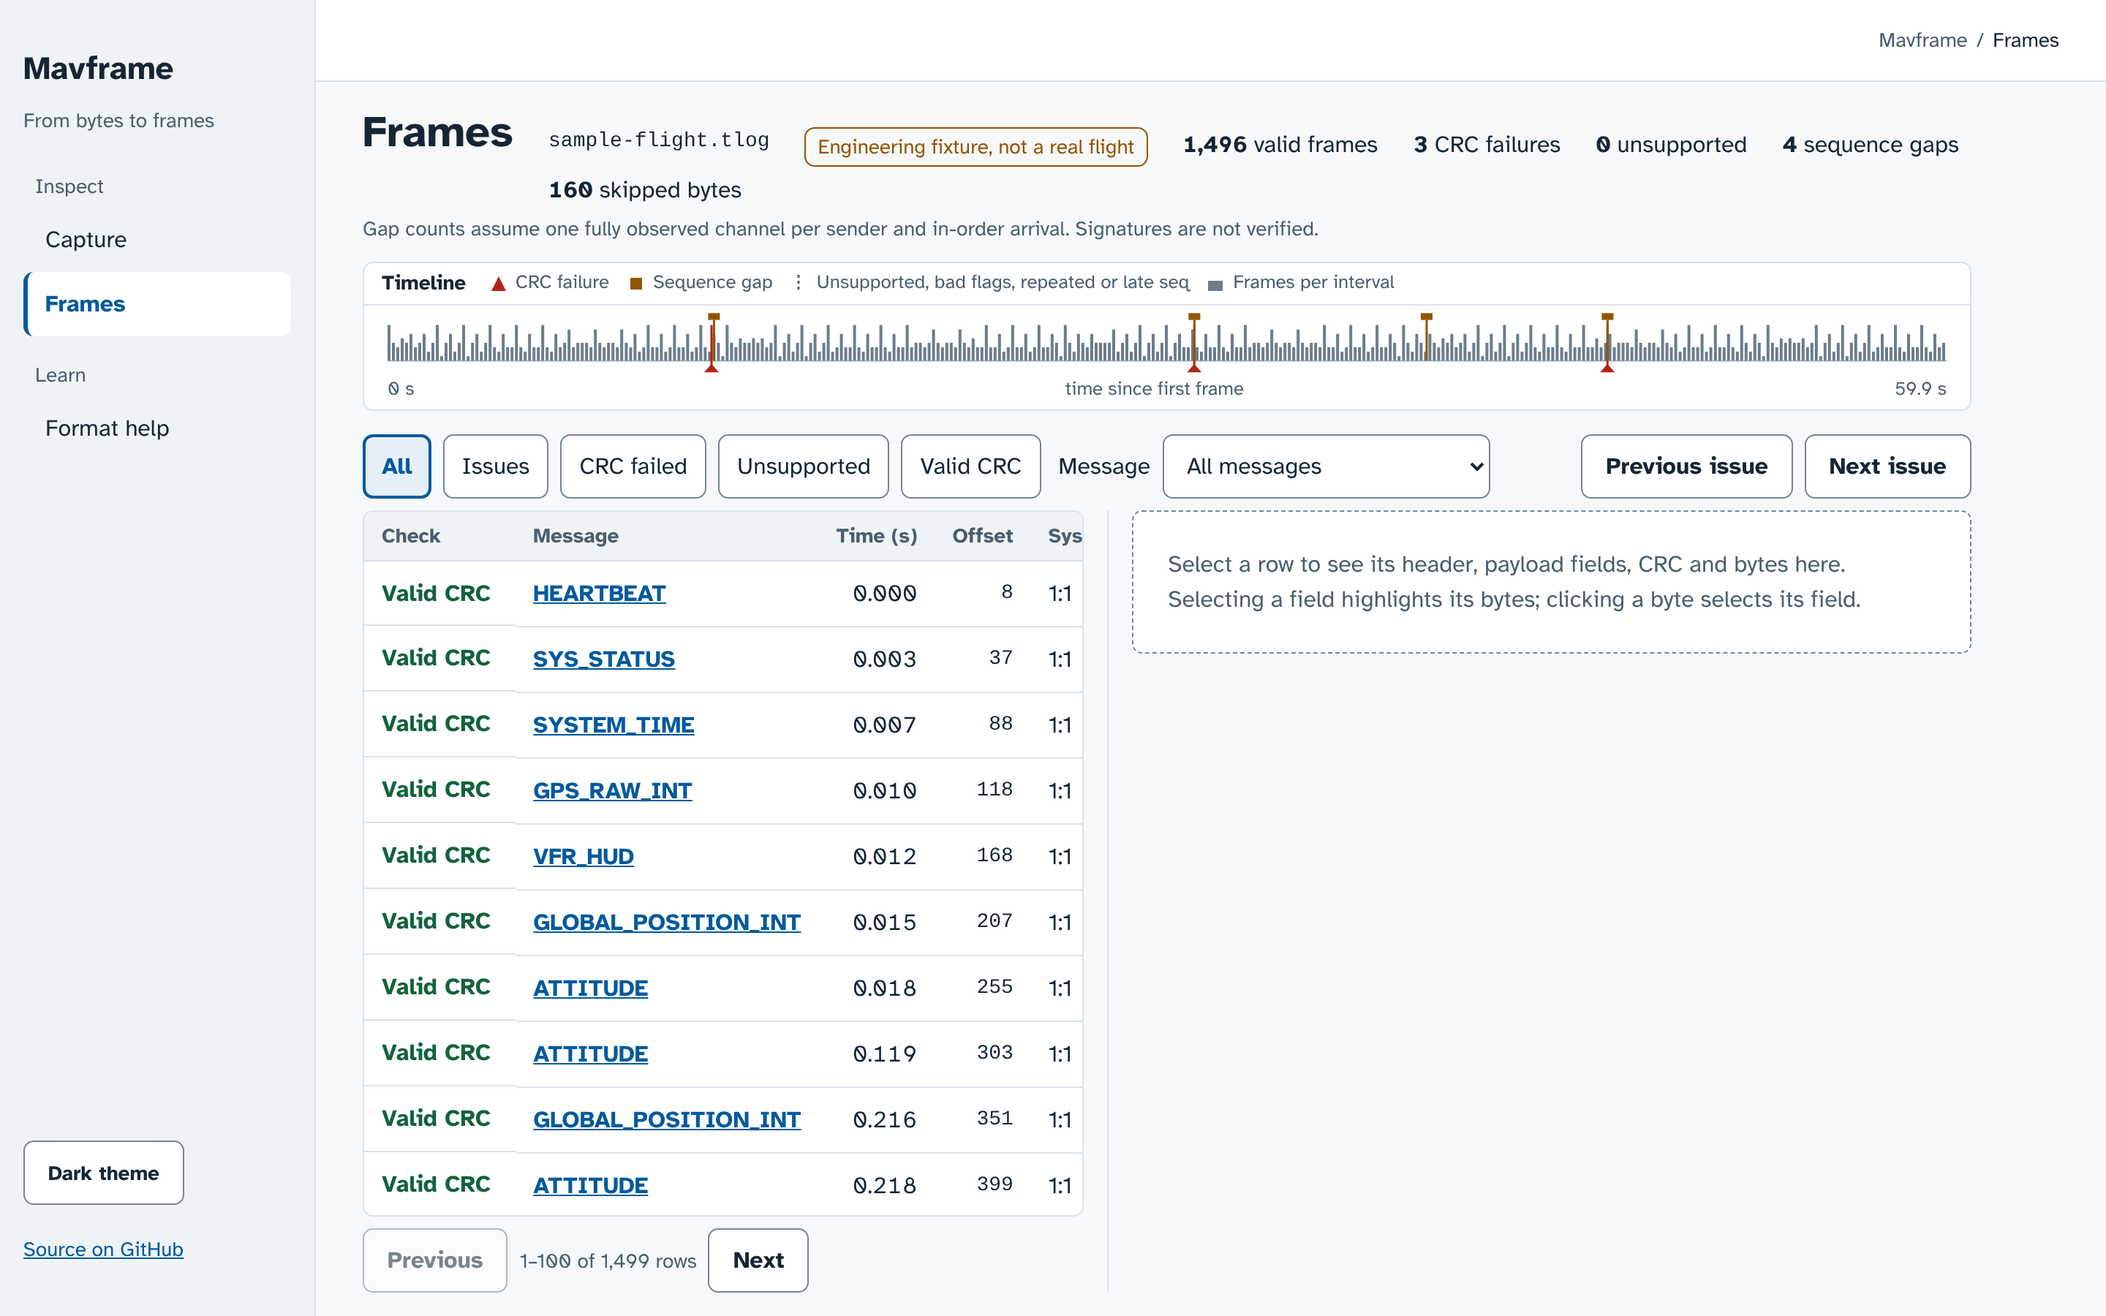
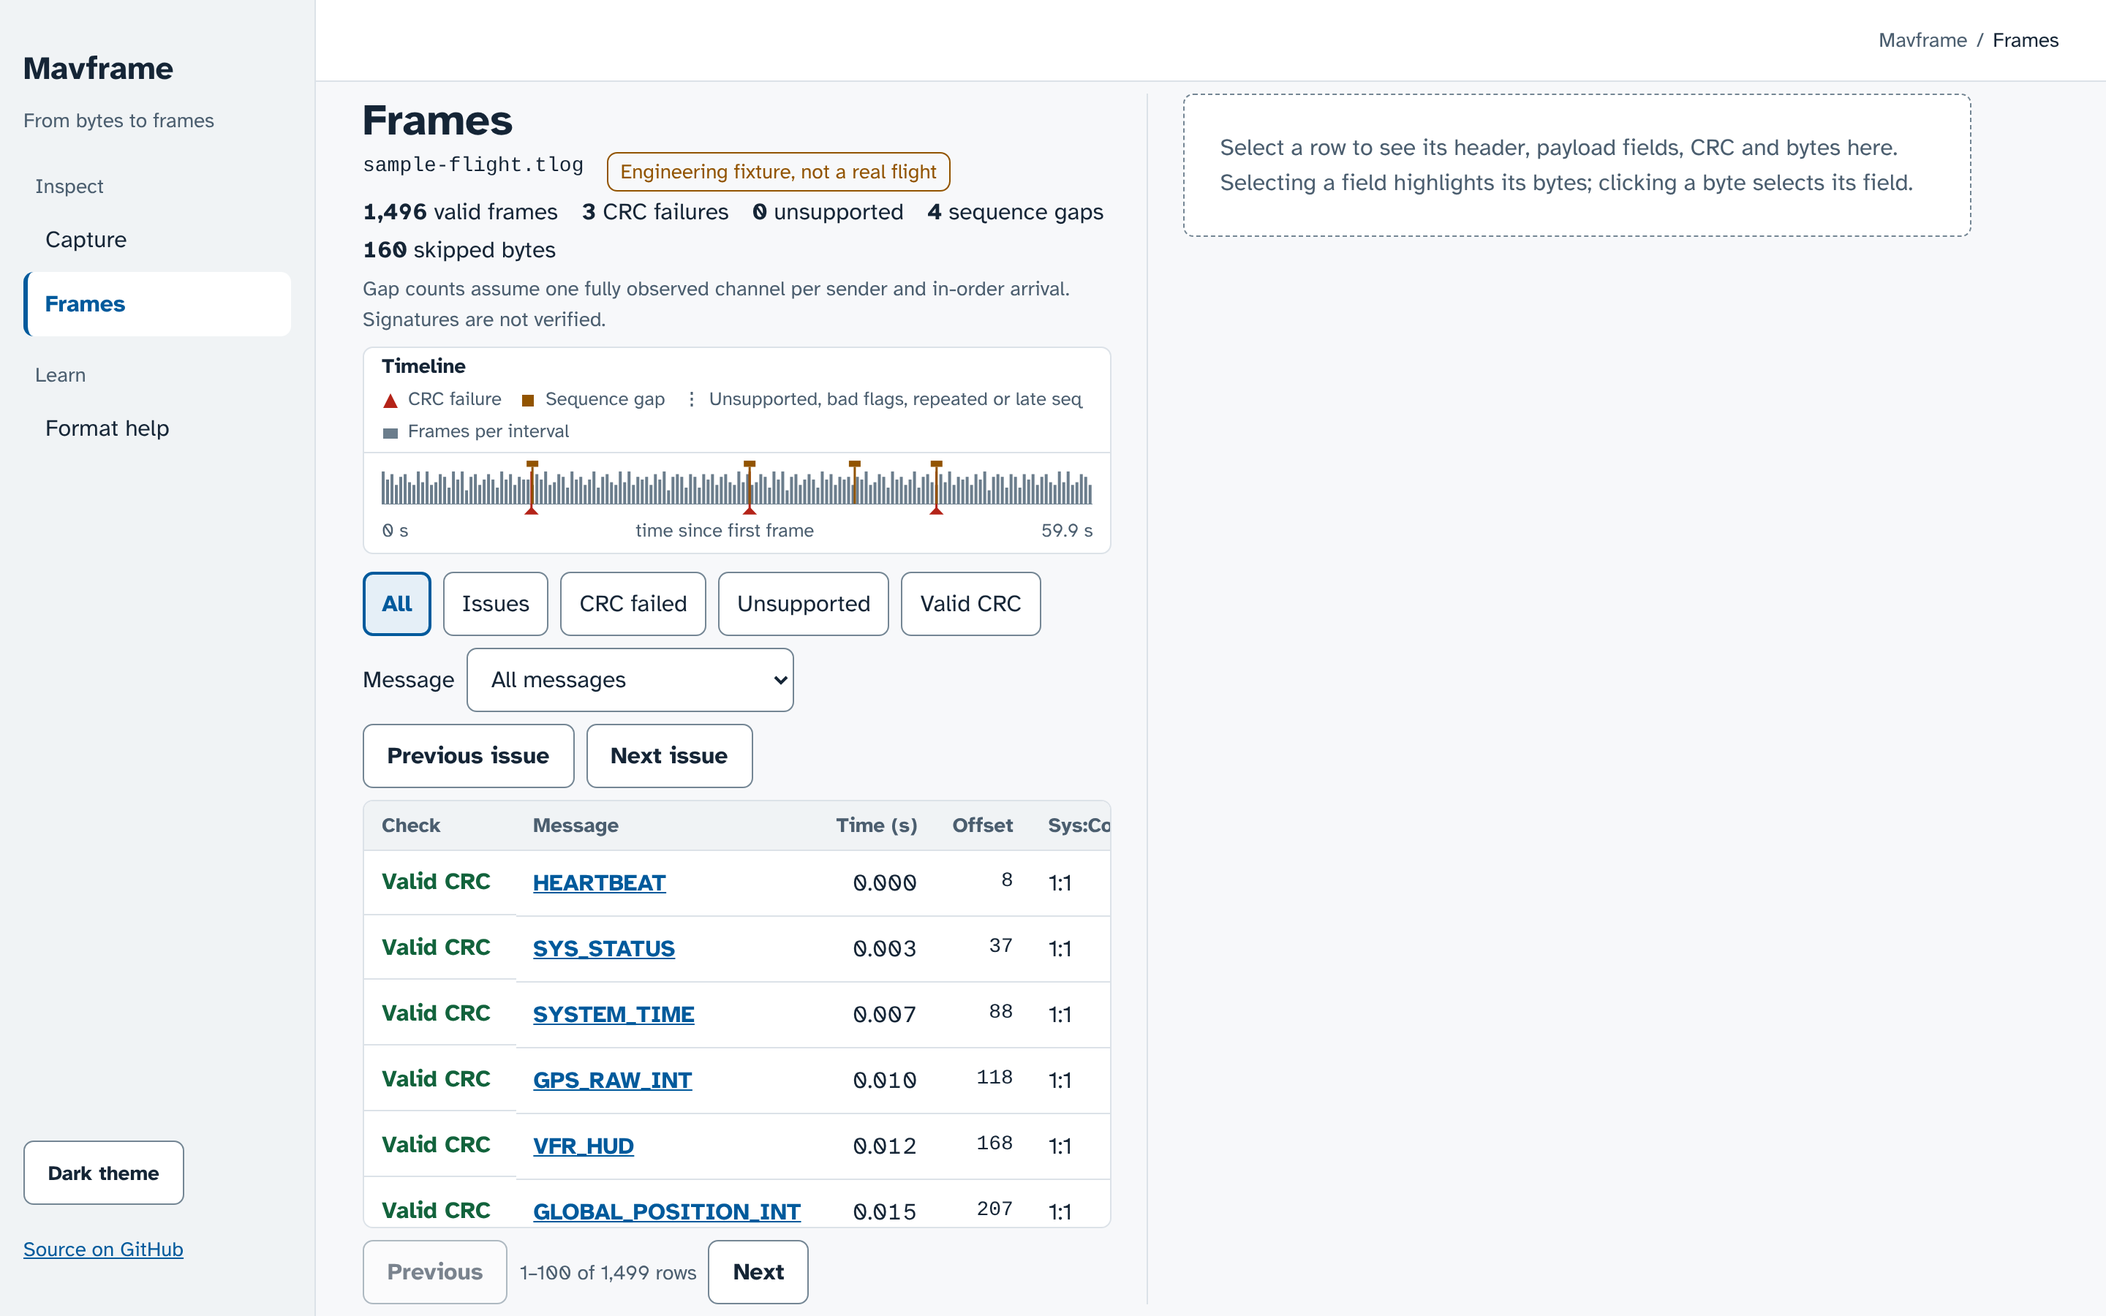
Three-pane analyzer only where it fits; route layout below; box-tested sizing
- The analyzer is used only at (min-width: 1200px) and (min-height: 880px).
  Measured: the 8 header fields (44px targets), 8 hex rows, CRC row and
  Export need about 820px below the location header; at 760px tall only
  3 of 8 header fields fit. Below that (e.g. 1024x768, 1280x720) Frames ->
  Frame details is the two-step route with its own title, H1 and Back.
- Analyzer layout: left column holds heading, counts, timeline, filters
  and the list; the right column runs full height with CRC, the field tree
  (header fields first, 44px rows) and the bytes (room for 8 rows).
- Tests with real bounding boxes: at 1440x900, all 8 header field buttons
  are inside the tree pane and the bytes pane holds 8+ rows with no inner
  or sideways scroll, for three row types; at 1024x768 and 1280x720 the
  route layout is used and the list columns, CRC row, tabs, tables and hex
  fit without clipping.

UI only: C, Wasm and core.js byte-identical.

Claude-Session: https://claude.ai/code/session_01SBDy3AAAGa7xAC8BzFcKKn

diff --git a/docs/css/inspector.css b/docs/css/inspector.css
@@ -180,61 +180,60 @@ tr.trimmed td { color: var(--muted); }
 .export-status { flex-basis: 100%; margin: 0; }
 .export-status:empty { display: none; }
 
-/* Wide (>= 1000px): the analyzer. The Frames screen fills the viewport height; the frame list
-   (left) and the detail column (right: CRC, field tree over bytes) scroll inside their own panes,
-   so list, fields and bytes are on screen together without page scrolling. */
+/* Analyzer (body.analyzer-mode, set by app.js when (min-width: 1200px) and (min-height: 880px) match):
+   the Frames screen fills the viewport height with no page scrolling. Left column: heading, counts,
+   timeline, filters and the scrolling frame list. Right column, full height: CRC wire vs computed,
+   the field tree (header fields first) and the bytes (room for 8+ rows), then Export.
+   Below that size, Frames -> Frame details is a two-step route, as on narrow screens. */
 .analyzer.wide .tabs { display: none; }
-@media (min-width: 1000px) {
-  body.analyzer-mode .app { height: 100vh; }
-  body.analyzer-mode .main-col { height: 100vh; }
-  body.analyzer-mode main { flex: 1; min-height: 0; display: flex; flex-direction: column; padding-top: 16px; padding-bottom: 16px; }
-  body.analyzer-mode #screen-frames { flex: 1; min-height: 0; display: grid; column-gap: 24px; align-items: baseline;
-    grid-template-columns: auto minmax(0, 1fr); grid-template-rows: auto auto auto auto minmax(0, 1fr);
-    grid-template-areas: "h1 counts" "note note" "timeline timeline" "filters filters" "analyzer analyzer"; }
-  body.analyzer-mode #frames-body { display: contents; }
-  body.analyzer-mode #screen-frames > h1 { grid-area: h1; }
-  body.analyzer-mode #frames-empty { grid-area: counts; }
-  body.analyzer-mode .counts { grid-area: counts; }
-  body.analyzer-mode #frames-assumptions { grid-area: note; }
-  body.analyzer-mode .timeline-box { grid-area: timeline; }
-  body.analyzer-mode .filters { grid-area: filters; }
-  body.analyzer-mode .analyzer { grid-area: analyzer; align-self: stretch; }
-  body.analyzer-mode #screen-frames h1 { margin-bottom: 4px; }
-  body.analyzer-mode .counts, body.analyzer-mode #frames-assumptions { margin-bottom: 4px; }
-  body.analyzer-mode .timeline-box { margin: 8px 0; }
-  body.analyzer-mode #timeline { height: 44px; }
-  body.analyzer-mode .timeline-wrap { padding: 4px 16px; }
-  body.analyzer-mode .filters { margin: 8px 0; }
-  body.analyzer-mode .analyzer { min-height: 0; grid-template-columns: minmax(0, 5fr) minmax(0, 6fr); grid-template-rows: minmax(0, 1fr); }
-  body.analyzer-mode .pane-list { display: flex; flex-direction: column; min-height: 0; }
-  body.analyzer-mode .list-wrap { flex: 1; min-height: 0; max-height: none; }
-  body.analyzer-mode .pager { padding-bottom: 0; }
-  body.analyzer-mode .pane-detail { min-height: 0; display: flex; flex-direction: column; border-left: 1px solid var(--divider); padding-left: 16px; }
-  body.analyzer-mode .pane-detail .detail { flex: 1; min-height: 0; display: flex; flex-direction: column; border-top: 0; padding-top: 0; }
-  body.analyzer-mode #detail-body { flex: 1; min-height: 0; display: flex; flex-direction: column; }
-  body.analyzer-mode #detail-summary { display: none; }
-  body.analyzer-mode .detail-title { font-size: 1rem; margin-bottom: 8px; }
-  body.analyzer-mode .crc-compare { margin-bottom: 8px; }
-  body.analyzer-mode .crc-compare > div { padding: 4px 12px; }
-  body.analyzer-mode .panes { flex: 1; min-height: 0; gap: 8px; grid-template-rows: minmax(0, 1fr) minmax(0, 1fr); }
-  body.analyzer-mode .tree-col, body.analyzer-mode #panel-bytes { min-height: 0; overflow: auto; border: 1px solid var(--divider); border-radius: var(--radius); background: var(--surface); padding: 0 8px 8px; }
-  body.analyzer-mode #panel-bytes { padding-top: 8px; }
-  body.analyzer-mode .export { margin-top: 8px; padding-top: 8px; }
-  body.analyzer-mode .note { margin: 8px 0; }
-  body.analyzer-mode .timeline-box .box-header { padding: 4px 12px; }
-  body.analyzer-mode .timeline-box h2 { font-size: .875rem; }
-  body.analyzer-mode .timeline-box .legend, body.analyzer-mode .axis { font-size: .8125rem; gap: 2px 12px; }
-  body.analyzer-mode .crc-compare { grid-template-columns: repeat(3, minmax(0, 1fr)); }
-  body.analyzer-mode .crc-compare .k { font-size: .8125rem; }
-  body.analyzer-mode .crc-compare .v { font-size: .9375rem; }
-  body.analyzer-mode .step { display: none; }
-  body.analyzer-mode .chip { padding-left: 12px; padding-right: 12px; }
-  body.analyzer-mode .chip[aria-pressed="true"] { padding-left: 11px; padding-right: 11px; }
-  body.analyzer-mode .filters { gap: 8px 12px; }
-  body.analyzer-mode .pager { flex-wrap: nowrap; gap: 8px; }
-  body.analyzer-mode #page-info { font-size: .875rem; white-space: nowrap; overflow: hidden; text-overflow: ellipsis; min-width: 0; }
-
-}
+body.analyzer-mode .app { height: 100vh; }
+body.analyzer-mode .main-col { height: 100vh; }
+body.analyzer-mode main { flex: 1; min-height: 0; display: flex; flex-direction: column; padding-top: 8px; padding-bottom: 8px; }
+body.analyzer-mode #screen-frames { flex: 1; min-height: 0; display: grid; column-gap: 24px;
+  grid-template-columns: minmax(0, 1fr) minmax(0, 1.1fr); grid-template-rows: auto auto auto auto auto minmax(0, 1fr);
+  grid-template-areas: "h1 detail" "counts detail" "note detail" "timeline detail" "filters detail" "list detail"; }
+body.analyzer-mode #frames-body, body.analyzer-mode .analyzer { display: contents; }
+body.analyzer-mode #screen-frames > h1 { grid-area: h1; margin-bottom: 4px; }
+body.analyzer-mode #frames-empty { grid-area: counts; }
+body.analyzer-mode .counts { grid-area: counts; margin-bottom: 4px; gap: 2px 16px; }
+body.analyzer-mode #frames-assumptions { grid-area: note; margin-bottom: 4px; }
+body.analyzer-mode .timeline-box { grid-area: timeline; margin: 4px 0; }
+body.analyzer-mode #timeline { height: 40px; }
+body.analyzer-mode .timeline-wrap { padding: 4px 12px; }
+body.analyzer-mode .timeline-box .box-header { padding: 4px 12px; }
+body.analyzer-mode .timeline-box h2 { font-size: .875rem; }
+body.analyzer-mode .timeline-box .legend, body.analyzer-mode .axis { font-size: .8125rem; gap: 2px 12px; }
+body.analyzer-mode .filters { grid-area: filters; margin: 8px 0; gap: 8px; }
+body.analyzer-mode .issue-step { margin-left: 0; }
+body.analyzer-mode .chip { padding-left: 12px; padding-right: 12px; }
+body.analyzer-mode .chip[aria-pressed="true"] { padding-left: 11px; padding-right: 11px; }
+body.analyzer-mode .pane-list { grid-area: list; display: flex; flex-direction: column; min-height: 0; }
+body.analyzer-mode .list-wrap { flex: 1; min-height: 0; max-height: none; }
+body.analyzer-mode .pager { flex-wrap: nowrap; gap: 8px; padding-bottom: 0; }
+body.analyzer-mode #page-info { font-size: .875rem; white-space: nowrap; overflow: hidden; text-overflow: ellipsis; min-width: 0; }
+body.analyzer-mode .pane-detail { grid-area: detail; min-height: 0; display: flex; flex-direction: column; border-left: 1px solid var(--divider); padding-left: 24px; }
+body.analyzer-mode .pane-detail .detail { flex: 1; min-height: 0; display: flex; flex-direction: column; border-top: 0; padding-top: 0; }
+body.analyzer-mode #detail-body { flex: 1; min-height: 0; display: flex; flex-direction: column; }
+body.analyzer-mode #detail-summary { display: none; }
+body.analyzer-mode .detail-title { font-size: 1rem; margin: 0 0 8px; }
+body.analyzer-mode .crc-compare { margin-bottom: 8px; grid-template-columns: repeat(3, minmax(0, 1fr)); }
+body.analyzer-mode .crc-compare > div { padding: 4px 12px; }
+body.analyzer-mode .crc-compare .k { display: inline; font-size: .8125rem; margin-right: 6px; }
+body.analyzer-mode .crc-compare .v { font-size: .9375rem; }
+body.analyzer-mode .panes { flex: 1; min-height: 0; gap: 8px; grid-template-rows: minmax(0, 1fr) auto; }
+body.analyzer-mode .tree-col { min-height: 0; overflow: auto; display: flex; flex-direction: column; border: 1px solid var(--divider); border-radius: var(--radius); background: var(--surface); padding: 0 8px 8px; }
+body.analyzer-mode #detail-notes { order: 9; }
+body.analyzer-mode #panel-bytes { border: 1px solid var(--divider); border-radius: var(--radius); background: var(--surface); padding: 4px 8px; }
+body.analyzer-mode #panel-bytes .hex { margin: 4px 0 0; border: 0; padding: 4px 8px; min-height: calc(8 * 1.8 * .875rem + 8px); max-height: calc(12 * 1.8 * .875rem + 8px); }
+body.analyzer-mode #hex-help { position: absolute; width: 1px; height: 1px; overflow: hidden; clip: rect(0 0 0 0); white-space: nowrap; }
+body.analyzer-mode .tree h3 { margin: 6px 0 4px; }
+body.analyzer-mode .export { margin-top: 4px; padding-top: 4px; }
+body.analyzer-mode .note { margin: 8px 0; }
+body.analyzer-mode .step { display: none; }
+body.analyzer-mode .tree table.dense td { padding-top: 0; padding-bottom: 0; vertical-align: middle; }
+body.analyzer-mode .tree table.dense th { padding-top: 4px; padding-bottom: 4px; }
+body.analyzer-mode #panel-bytes .legend { font-size: .8125rem; gap: 2px 10px; }
+body.analyzer-mode .detail-title { position: absolute; width: 1px; height: 1px; overflow: hidden; clip: rect(0 0 0 0); white-space: nowrap; margin: 0; }
 
 /* ---------- format help ---------- */
 .prose p, .prose li { max-width: 72ch; }

diff --git a/docs/js/app.js b/docs/js/app.js
@@ -9,7 +9,9 @@ import { buildFinding } from "./finding.js";
 
 const SAMPLE = { url: "sample/sample-flight.tlog", name: "sample-flight.tlog" };
 const PAGE = 100;
-const WIDE = window.matchMedia("(min-width: 1000px)");
+// The three-pane analyzer needs room for the list, the header fields (8 rows of 44px targets) and
+// 8+ rows of bytes at once; below this size Frames -> Frame details is a two-step route.
+const WIDE = window.matchMedia("(min-width: 1200px) and (min-height: 880px)");
 const CHECKS = ["all", "issues", "crc", "unsupported", "valid"];
 const TABS = ["decoded", "bytes", "header"];
 const $ = (id) => document.getElementById(id);
@@ -680,8 +682,9 @@ function renderDetail(route) {
     if (g.trimmed) kids.push(el("p", { class: "note", text: `The sender trimmed trailing zero bytes (MAVLink v2): ${a.plen} of ${g.length} payload bytes were sent; the rest read as zero.` }));
     return kids;
   };
-  const tree = (ids) => el("div", { class: "tree" }, ...a.groups.filter((g) => ids.includes(g.id)).flatMap(groupTable));
-  $("panel-header").replaceChildren(tree(["ts", "header", "crc", "sig"]));
+  const tree = (ids) => el("div", { class: "tree" }, ...ids.map((id) => a.groups.find((g) => g.id === id)).filter(Boolean).flatMap(groupTable));
+  // The analyzer reads header fields first, as a packet analyzer's tree does; the tlog record follows.
+  $("panel-header").replaceChildren(tree(wide ? ["header", "ts", "crc", "sig"] : ["ts", "header", "crc", "sig"]));
   $("panel-decoded").replaceChildren(tree(["payload"]));
 
   // Tabs on narrow screens; all three panes at once on wide screens.

diff --git a/docs/index.html b/docs/index.html
@@ -216,7 +216,7 @@
           <p id="field-status" class="sr-only" role="status" aria-live="polite"></p>
           <div class="export" role="group" aria-label="Export and step">
             <button type="button" class="btn primary" id="export-finding" aria-describedby="export-help">Export finding (JSON)</button>
-            <label class="check" for="include-payload"><input type="checkbox" id="include-payload">Include all payload bytes (may contain GPS)</label>
+            <label class="check" for="include-payload"><input type="checkbox" id="include-payload">Include all payloads (may contain GPS)</label>
             <span class="step">
               <button type="button" class="btn" id="prev-row">Previous row</button>
               <button type="button" class="btn" id="next-row">Next row</button>

diff --git a/DESIGN.md b/DESIGN.md
@@ -46,13 +46,17 @@ The inspector is a Wireshark-style packet analyzer over the real parser output, 
 Selection is linked both ways: a field highlights its bytes, a click on a byte selects its field, and with the bytes focused
 Left/Right move between fields (the keyboard path). The CRC wire and computed values sit side by side above the panes.
 
-- At >= 1000px the Frames screen fills the viewport height (no page scrolling): a compact header (H1 with counts, the
-  assumption line, timeline, filters) above two panes. The frame list scrolls on the left; the right column holds the
-  CRC comparison, the field tree and the bytes, each scrolling inside its own pane, plus Export. `#/frames/<index>`
-  selects a row on this screen: title, H1 and breadcrumb stay "Frames" and there is no Back link. Selecting a row
-  keeps keyboard focus in the list; arrow keys move the selection. Tested at 1440x900 and 1024x768.
+- Where the analyzer is usable, `(min-width: 1200px) and (min-height: 880px)`, the Frames screen fills the viewport
+  height with no page scrolling. The left column holds the heading, counts, assumption line, timeline, filters and the
+  scrolling frame list. The right column, at full height, holds CRC wire vs computed, the field tree (header fields
+  first: all 8 fit without inner scrolling) and the bytes (room for 8 rows), then Export. `#/frames/<index>` selects a
+  row on this screen: title, H1 and breadcrumb stay "Frames", with no Back link. Selecting a row keeps keyboard focus in
+  the list, and arrow keys move the selection. The threshold was measured: the 8 header rows (44px targets), 8 hex rows,
+  the CRC row and Export need about 820px below the location header.
+- Below that size (for example 1024x768 or 1280x720) Frames and Frame details are two steps, as on narrow screens:
+  `#/frames/<index>` is the Frame details screen with Back, title "Frame details" and Decoded / Bytes / Header tabs.
 - The hex pane shows 16 bytes per row and falls back to 8 or 4 when a row (with its ASCII column) does not fit.
-- Below 1000px the same URL is its own **Frame details** screen with **Decoded / Bytes / Header** tabs (ARIA tabs, arrow keys).
+- Elsewhere the same URL is its own **Frame details** screen with **Decoded / Bytes / Header** tabs (ARIA tabs, arrow keys).
 
 Reference: Wireshark User's Guide, "Working With Captured Packets"
 (https://www.wireshark.org/docs/wsug_html_chunked/ChapterWork.html): "Clicking on an item in the tree will highlight the
@@ -106,7 +110,7 @@ Every data screen has loading ("Parsing the capture…"), empty ("No capture is 
   `color-not-only` (every status has text), line 53 navigation (predictable Back, deep linking).
 - anti-slop `skills/antislop-ui/SKILL.md` lines 20-25 (no default gradients) and 39-43 (shadow only as an elevation marker:
   this UI is flat); `skills/antislop-layoutmobile/SKILL.md` lines 41-42 (design the 600-1024px band: Menu sheet below
-  1000px, analyzer tested at 1024x768).
+  1000px, two-step route layout tested at 1024x768 and 1280x720).
 - awesome-design-md: token front matter plus prose order for this file; `design-md/linear.app/DESIGN.md` line 264 (mono
   reserved for code) informs the mono-only-for-hex rule. axe-core: 0 violations on every screen, light and dark,
 at 1280 and 320 px.

diff --git a/README.md b/README.md
@@ -126,9 +126,9 @@ details and packet bytes panes):
   signature fields next to the hex bytes. Selecting a field highlights its
   bytes; clicking a byte selects its field; with the bytes focused, Left and
   Right move between fields. The CRC from the capture and the CRC computed by
-  `mavframe_crc16()` are shown side by side. On screens 1000 px and wider the
+  `mavframe_crc16()` are shown side by side. On windows at least 1200 x 880 px the
   list, field tree and bytes fill the window side by side without page
-  scrolling; on narrow screens it is its own screen with Decoded, Bytes and
+  scrolling; on smaller windows it is its own screen with Decoded, Bytes and
   Header tabs.
 - **Export finding (JSON)**: one row as a portable JSON file with the mavframe
   version, file name, size and SHA-256, offsets, CRC wire vs computed and the
@@ -306,7 +306,7 @@ Neither parser reported a frame that was not written to the stream.
 ./build/test_mavframe          # prints "967 checks, 0 failures"
 python3 -m pytest tests -v     # 17 passed (differential, command line, version)
 node --test tests/web/test_wasm.mjs   # 18 passed (WebAssembly build, see Browser inspector)
-node --test tests/web/test_finding.mjs tests/web/test_routes.mjs tests/web/test_ui.mjs   # 46 passed, 1 skipped (screenshots): 5 + 23 + 18 (Chromium, Playwright, axe-core)
+node --test tests/web/test_finding.mjs tests/web/test_routes.mjs tests/web/test_ui.mjs   # 47 passed, 1 skipped (screenshots): 5 + 24 + 18 (Chromium, Playwright, axe-core)
 ```
 
 The C tests cover: CRC known answer (0x6F91 for "123456789"), zero-length and
